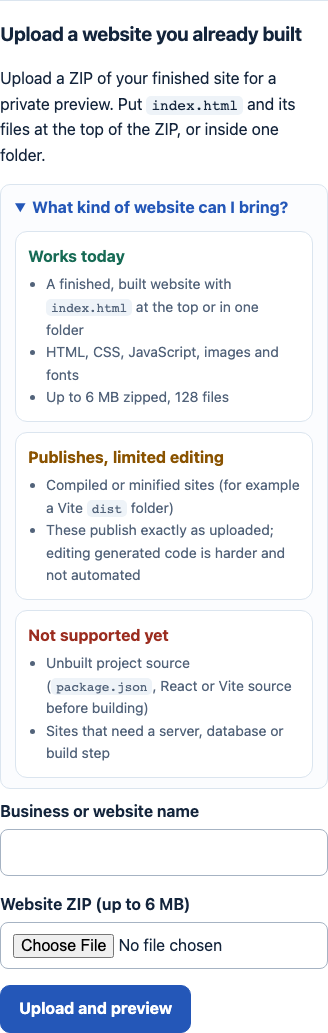
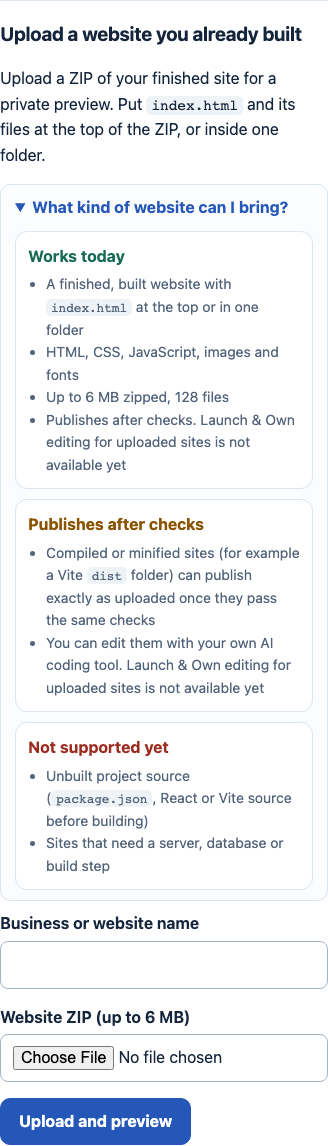
Qualify compiled-site tier and record accessibility audit (#168)
- Compatibility guide: compiled sites publish after checks; own AI tools can edit;
  Launch & Own editing for uploaded sites is not available yet (coordinator note)
- Automated a11y audit: 0 contrast failures across 479 text elements, heading,
  landmark, label, keyboard focus and reduced-motion checks recorded

diff --git a/docs/design/pr53/README.md b/docs/design/pr53/README.md
@@ -9,3 +9,12 @@ Screenshots come from the mocked Worker test harness (fake `tester` account, pla
   - `exploreMarkup()` builds Launch / Maintain / Grow from #164's `marketingPipelineMarkup()`, `aiUpdateJourneyMarkup()` and `serviceExplorerMarkup()`, **consumed unchanged** (#164 owns those files). A test guards the markers it slices on.
   - Maintain adds two paths: own AI coding tool (available with your own tools) and the customer-owned website assistant (*planned · not released*, #165).
 - Tabs are native radio inputs styled with `:has()`. No script, no CSP change. Without `:has()` support all panels stay visible.
+
+## Accessibility audit (automated, Chromium, real Worker headers)
+Pages: landing (ZIP on and off), setup with the upload form, review, privacy. All disclosures open; reduced motion emulated.
+- Contrast (WCAG AA, effective background including alpha): 479 text elements, **0 failures**. Text over gradients appears only in the decorative, `aria-hidden` hero illustration.
+- Structure: one `<h1>` per page, no skipped heading levels, `banner` / `navigation` / `main` / `contentinfo` landmarks, skip link to `#main`, every form field labelled.
+- Keyboard: Tab through every focusable element on each page; all show a visible focus ring (tab labels draw the ring for their radio).
+- Screen-reader tree: the explorer reads as group "Choose what to explore" with three radios and the checked state; inactive panels are removed from the tree.
+- Reduced motion: smooth scrolling off.
+- Not yet done: a manual VoiceOver/NVDA walkthrough by a person. The automated checks don't replace it.
